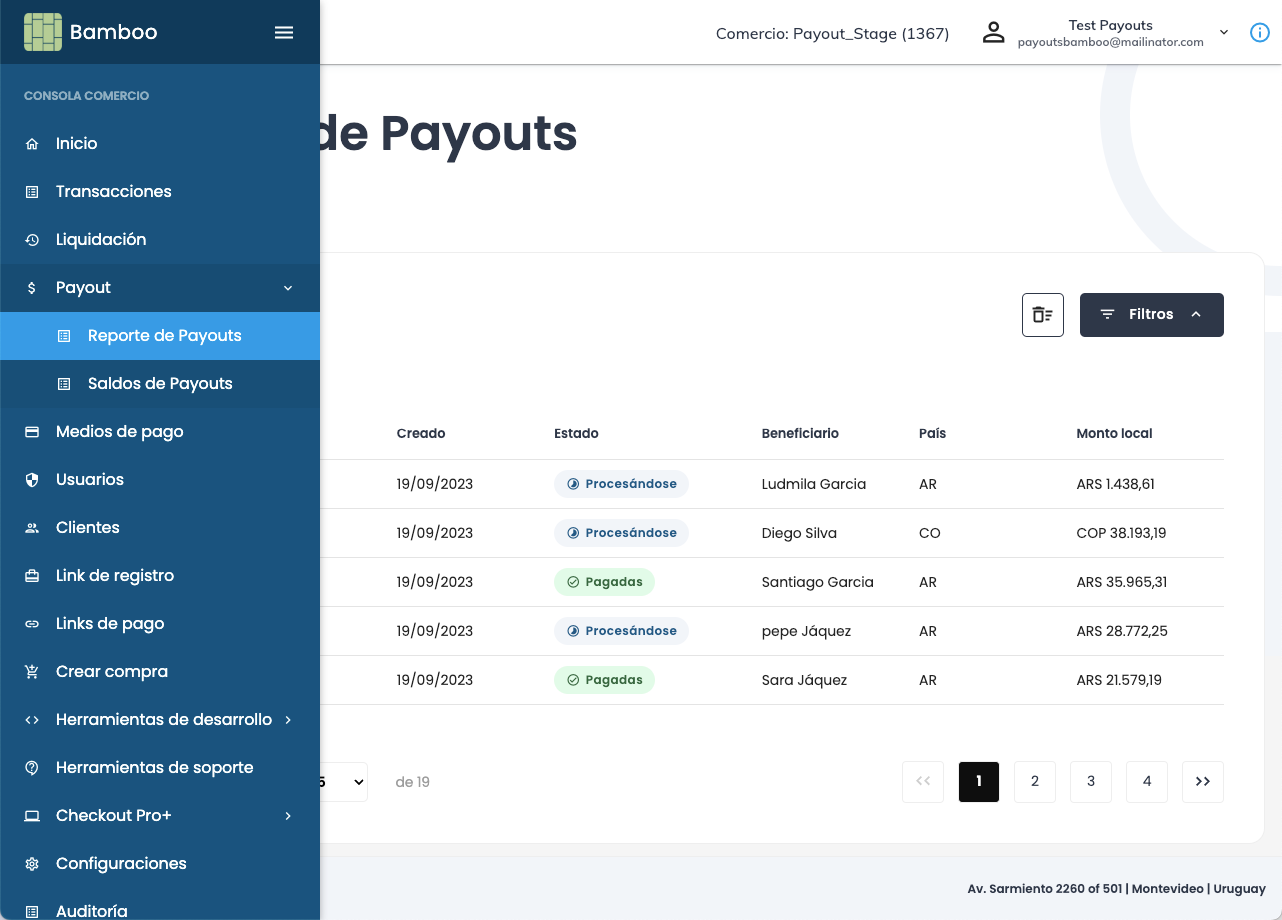
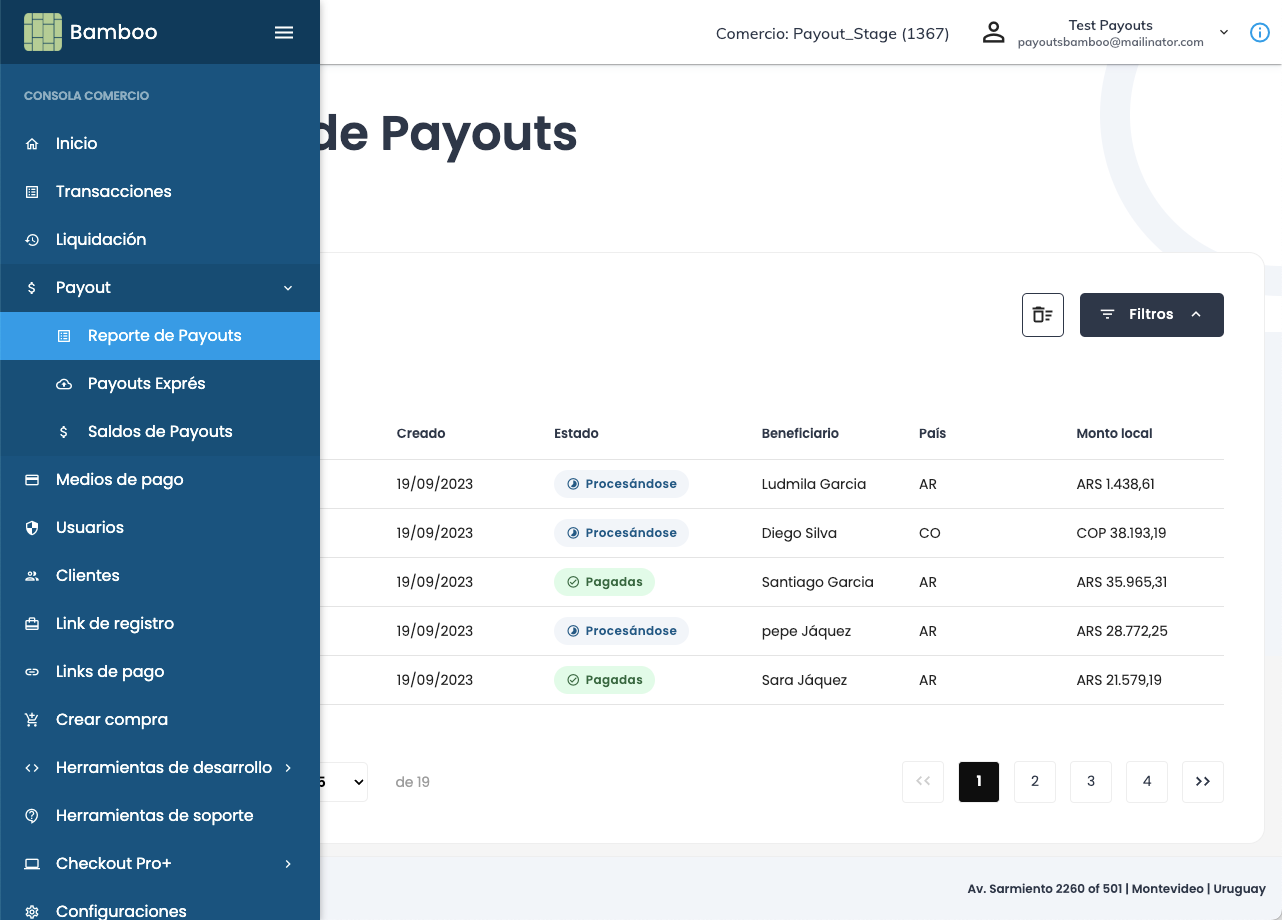
Funcionalidad Express Payouts

diff --git a/content/es/Payouts/Payouts Merchant console/Express.md b/content/es/Payouts/Payouts Merchant console/Express.md
@@ -4,7 +4,7 @@ linkTitle: "Payouts exprés"
 date: 2023-06-30T08:16:09-05:00
 type: docs
 Description: >
- COn _**Payouts exprés**_, puede iniciar Payouts masivos sin esfuerzo, simplemente cargando un archivo Excel que contiene sus solicitudes de Payouts. Este proceso simplificado le permite enviar multiplos pagos con facilidad y precisión de forma eficiente.
+ Con _**Payouts exprés**_, puede iniciar Payouts masivos sin esfuerzo, simplemente cargando un archivo Excel que contiene sus solicitudes de Payouts. Este proceso simplificado le permite enviar multiplos pagos con facilidad y precisión de forma eficiente.
 weight: 20
 ---
 
@@ -18,7 +18,7 @@ Para acceder a la funcionalidad de _**Payouts exprés**_, abra su consola de Com
 * Centralice sus Payouts con mínimo esfuerzo.
 
 ## ¿Cómo utilizar Payouts exprés? {#how-to-use-express-payouts}
-_**Payouts exprés**_ tiene una secuencia fácil de llevar que le permite crear uno o más Payouts de forma simultanea. Una vez complete un paso, la secuencia activa el siguiente para evitar errores.
+_**Payouts exprés**_ le brinda una secuencia fácil de llevar que le permite crear uno o más Payouts de forma simultanea. Una vez complete un paso, la secuencia activa el siguiente para evitar errores.
 
 A continuación, describimos cada paso y le damos instrucciones.
 

diff --git a/content/es/Payouts/Payouts Merchant console/_index.md b/content/es/Payouts/Payouts Merchant console/_index.md
@@ -12,4 +12,4 @@ Para navegar a las opciones de Payout, abre su consola de Comercios y expanda la
 
 ![PrintScreen](/assets/Payouts/Payouts8_es.png)
 
-La consola de Payouts tiene dos opciones: _**Reporte de Payouts**_ y _**Saldos de Payouts**_; encuentre a continuación la información relacionada.
+La consola de Payouts tiene tres opciones: _**Reporte de Payouts**_, _**Payouts Exprés**_ y _**Saldos de Payouts**_; encuentre a continuación la información relacionada.
